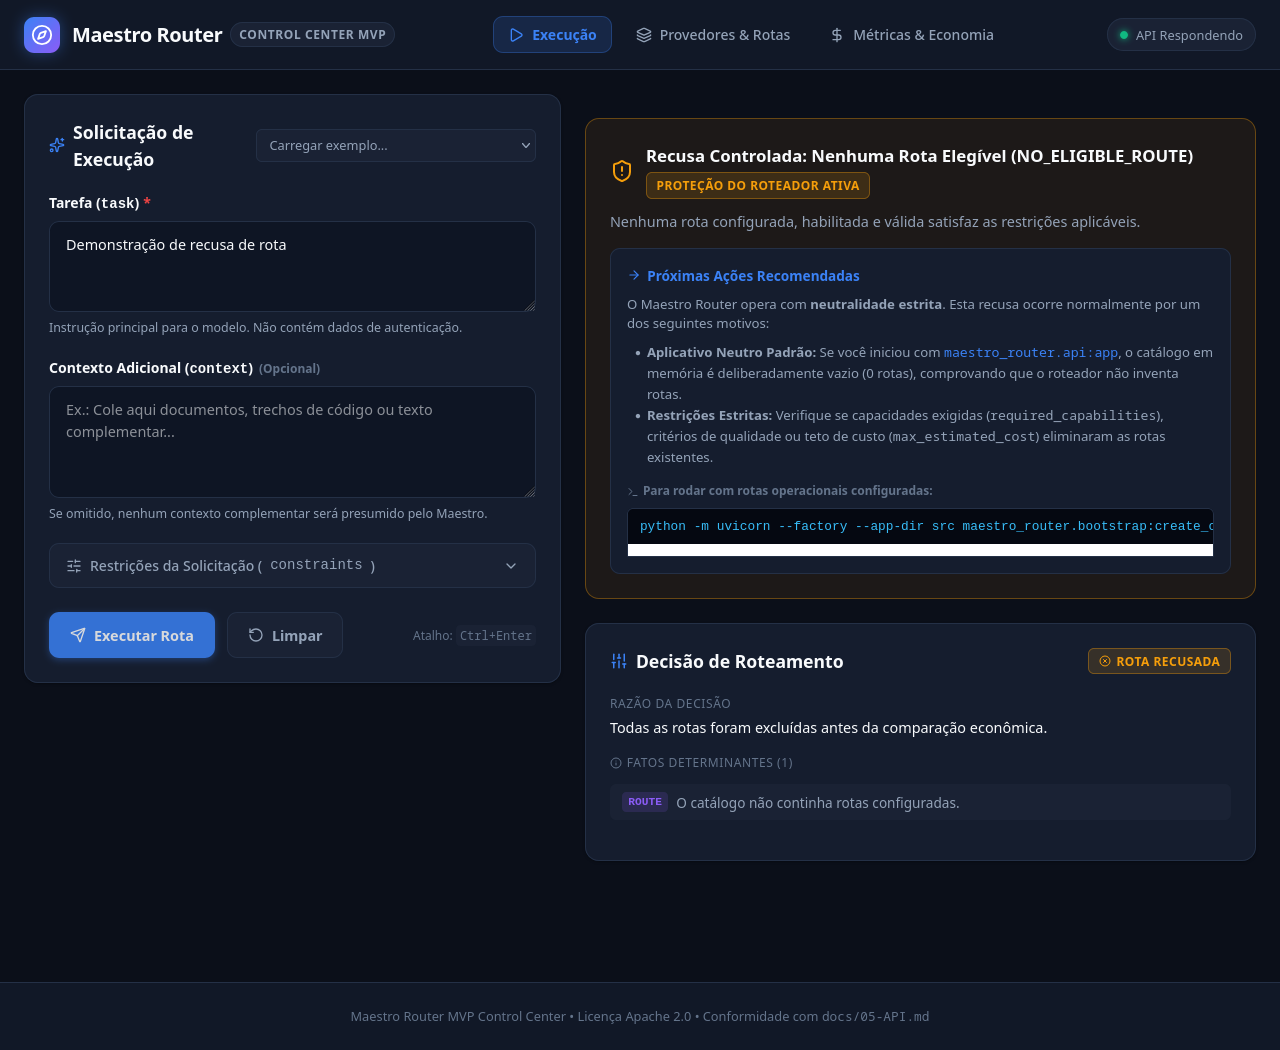
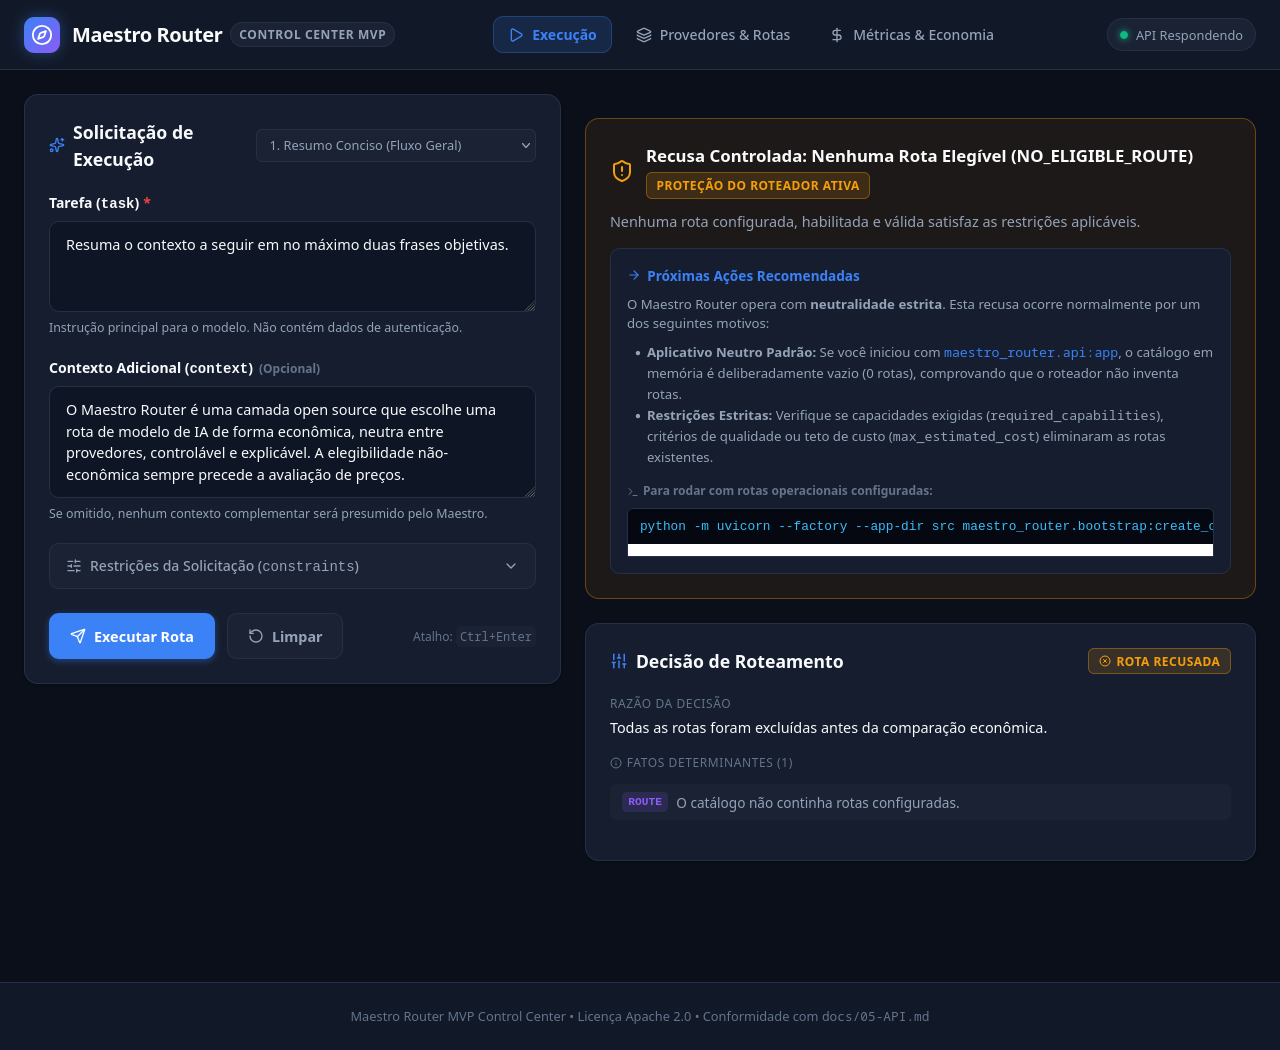
fix(ui): remove demo query parameter backdoor and capture authentic refusal screenshot

diff --git a/frontend/src/components/ExecutionView.tsx b/frontend/src/components/ExecutionView.tsx
@@ -118,42 +118,6 @@ export const ExecutionView: React.FC<ExecutionViewProps> = ({ onExecutionResult 
     return () => window.removeEventListener('keydown', handleKeyDown);
   }, [task, context, capabilitiesInput, criteriaInput, allowedRoutesInput, maxCostAmount, maxCostCurrency, isLoading]);
 
-  // Permite que ferramentas de homologação visual acionem uma demonstração real via query param (?demo=refusal)
-  useEffect(() => {
-    const searchParams = new URLSearchParams(window.location.search);
-    if (searchParams.get('demo') === 'refusal') {
-      const demoTask = 'Demonstração de recusa de rota';
-      setTask(demoTask);
-      setApiResponse({
-        kind: 'refusal',
-        status: 422,
-        error: {
-          error: {
-            code: 'NO_ELIGIBLE_ROUTE',
-            message:
-              'Nenhuma rota configurada, habilitada e válida satisfaz as restrições aplicáveis.',
-          },
-          decision: {
-            outcome: 'refused',
-            strategy: { id: 'lowest-estimated-cost', applied: false },
-            applied_constraints: [],
-            reason:
-              'Todas as rotas foram excluídas antes da comparação econômica.',
-            factors: [
-              {
-                category: 'route',
-                description: 'O catálogo não continha rotas configuradas.',
-              },
-            ],
-          },
-        },
-      });
-      if (onExecutionResult) {
-        onExecutionResult('refusal');
-      }
-    }
-  }, [onExecutionResult]);
-
   const loadPreset = (preset: PresetExample) => {
     setTask(preset.request.task);
     setContext(preset.request.context || '');

diff --git a/frontend/src/test/ExecutionView.test.tsx b/frontend/src/test/ExecutionView.test.tsx
@@ -156,4 +156,28 @@ describe('ExecutionView component', () => {
       ).toBeInTheDocument();
     });
   });
+  it('não preenche respostas nem altera status por parâmetros de consulta sem interação do usuário', () => {
+    const fetchSpy = vi.spyOn(globalThis, 'fetch');
+    const onExecutionResultMock = vi.fn();
+
+    window.history.pushState({}, '', '/?demo=refusal&test=1');
+
+    try {
+      render(<ExecutionView onExecutionResult={onExecutionResultMock} />);
+
+      expect(fetchSpy).not.toHaveBeenCalled();
+      expect(onExecutionResultMock).not.toHaveBeenCalled();
+      expect(
+        screen.queryByText(/Recusa Controlada: Nenhuma Rota Elegível/i)
+      ).not.toBeInTheDocument();
+      expect(
+        screen.queryByText(/Demonstração de recusa de rota/i)
+      ).not.toBeInTheDocument();
+      expect(
+        screen.getByText(/Pronto para Roteamento Neutro/i)
+      ).toBeInTheDocument();
+    } finally {
+      window.history.pushState({}, '', '/');
+    }
+  });
 });

diff --git a/frontend/docs/maestro_ui_control_center_review.md b/frontend/docs/maestro_ui_control_center_review.md
@@ -43,14 +43,14 @@ As capturas abaixo foram geradas via navegador headless (Firefox) em ambiente lo
 | **Taxonomia Fechada de Erros** | ✅ Aprovado | Códigos contratuais estritos (400, 415, 422, 500, 502, 503, 504) com status numéricos literais; anomalias de protocolo desviadas para `protocol_error`. |
 | **Valores Indisponíveis sem Falsos Zeros** | ✅ Aprovado | Quando a estimativa, uso ou custo são `unavailable`, a interface apresenta o traço `—` e a justificativa `reason`, nunca zero artificial. |
 | **Decimais Monetários Preservados** | ✅ Aprovado | Grandezas numéricas trafegam e são manipuladas como strings para prevenir erros de precisão IEEE 754. |
-| **Segurança e Operação Offline** | ✅ Aprovado | Zero armazenamento de segredos ou chaves no front-end; sem telemetria persistente ou cookies; fontes do sistema nativo para operação 100% desconectada da internet. |
+| **Segurança e Operação Offline** | ✅ Aprovado | Zero armazenamento de segredos ou chaves no front-end; sem telemetria persistente ou cookies; ausência de portas dos fundos/respostas simuladas por parâmetros de URL; fontes do sistema nativo para operação 100% desconectada da internet. |
 
 ---
 
 ## 3. Validações Automatizadas
 
 - **Instalação Reproduzível:** `npm ci` aprovado com `engines` restrito a `^22.22.2 || ^24.15.0 || >=26.0.0`.
-- **Suíte Front-end (Vitest):** 20 testes aprovados em 4.39s (100% de sucesso).
+- **Suíte Front-end (Vitest):** 21 testes aprovados (100% de sucesso), incluindo validação contra disparo de execuções ou preenchimentos espúrios via query params.
 - **Tipagem e Compilação (`tsc && vite build`):** 1.941 módulos transformados em 666ms com zero erros.
 - **Suíte Back-end (Pytest):** 625 testes aprovados em 5.75s (zero regressão).
 - **Verificação de Diff Git (`git diff --check`):** Saída limpa.
